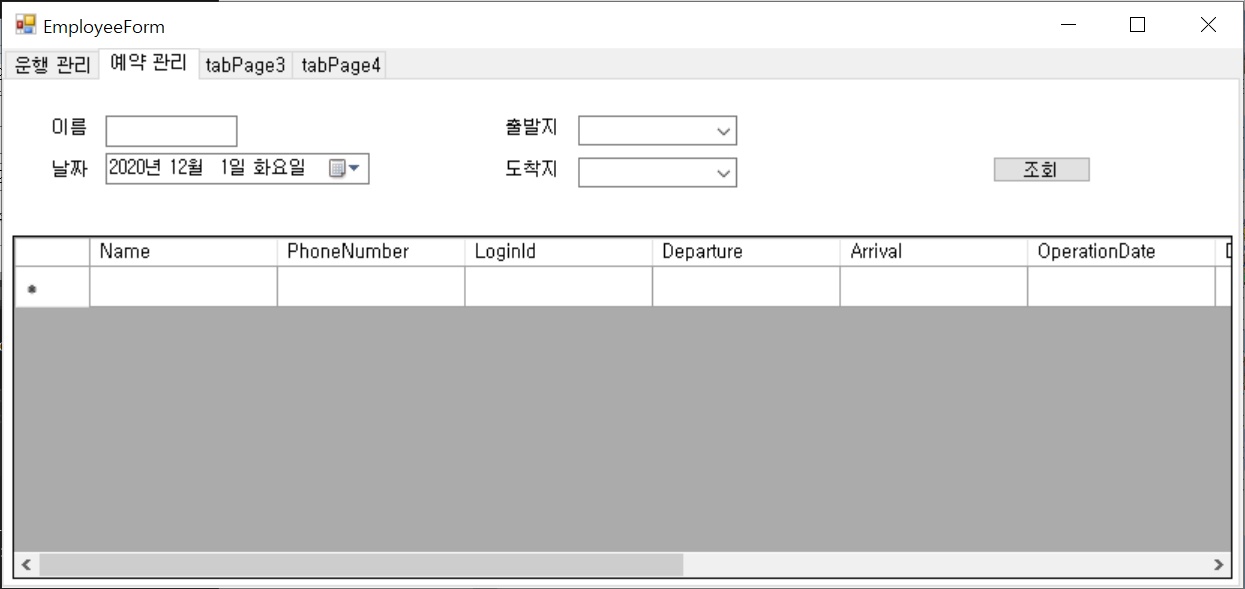
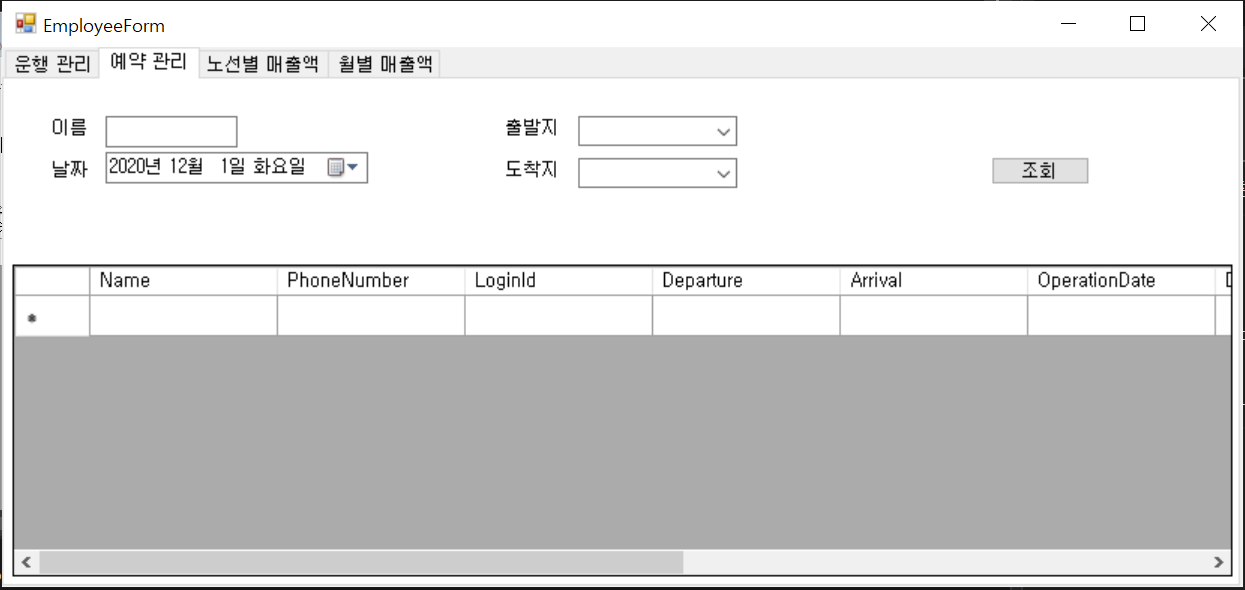
.

diff --git a/BusProject/EmployeeForm.Designer.cs b/BusProject/EmployeeForm.Designer.cs
@@ -571,7 +571,7 @@ namespace BusProject
             this.tabPage3.Padding = new System.Windows.Forms.Padding(4);
             this.tabPage3.Size = new System.Drawing.Size(1173, 508);
             this.tabPage3.TabIndex = 2;
-            this.tabPage3.Text = "tabPage3";
+            this.tabPage3.Text = "노선별 매출액";
             this.tabPage3.UseVisualStyleBackColor = true;
             // 
             // tabPage4
@@ -582,7 +582,7 @@ namespace BusProject
             this.tabPage4.Padding = new System.Windows.Forms.Padding(4);
             this.tabPage4.Size = new System.Drawing.Size(1173, 508);
             this.tabPage4.TabIndex = 3;
-            this.tabPage4.Text = "tabPage4";
+            this.tabPage4.Text = "월별 매출액";
             this.tabPage4.UseVisualStyleBackColor = true;
             // 
             // EmployeeForm

diff --git a/README.md b/README.md
@@ -62,7 +62,7 @@
 ### 2. 버스 운행 관리
 
 <div>
-<img src="./images/직원관리폼_운행.png" width="45%">
+<img src="./images/직원관리폼_운행.PNG" width="45%">
 </div>
 
 - 버스의 출발지, 도착지, 날짜, 시간, 버스타입을 추가하면 연동된 DB 테이블로 추가된다.
